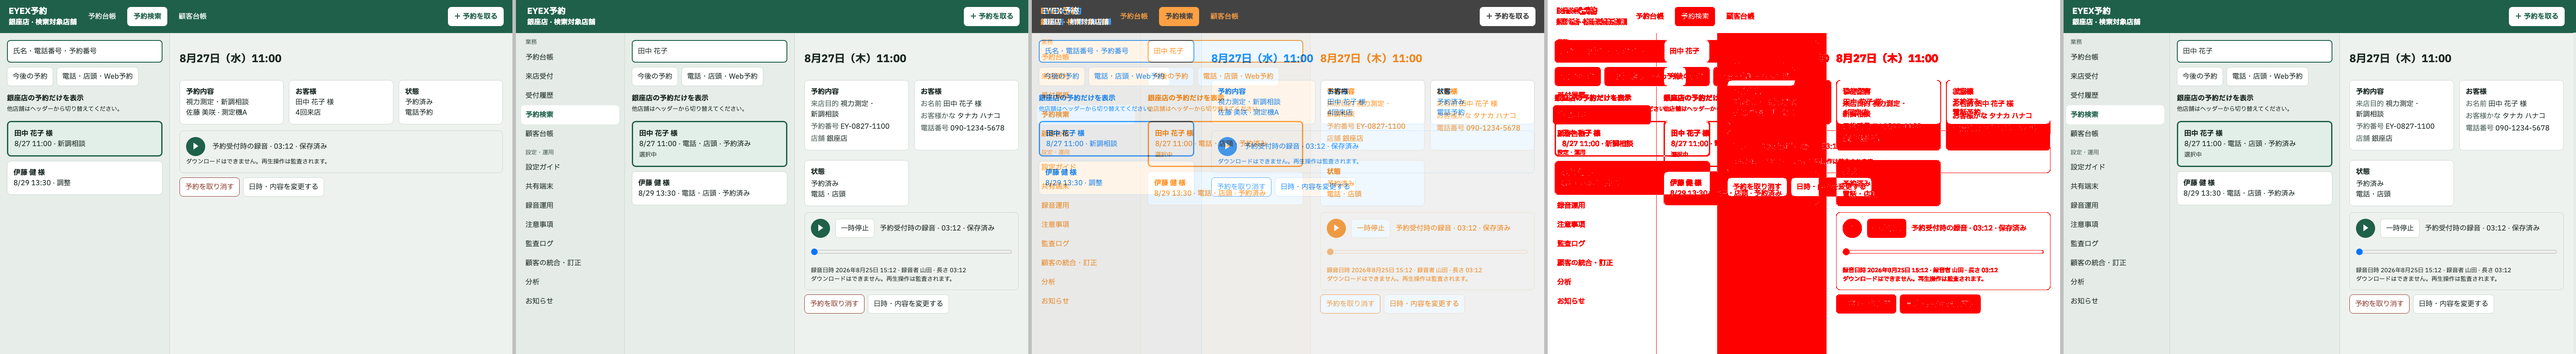
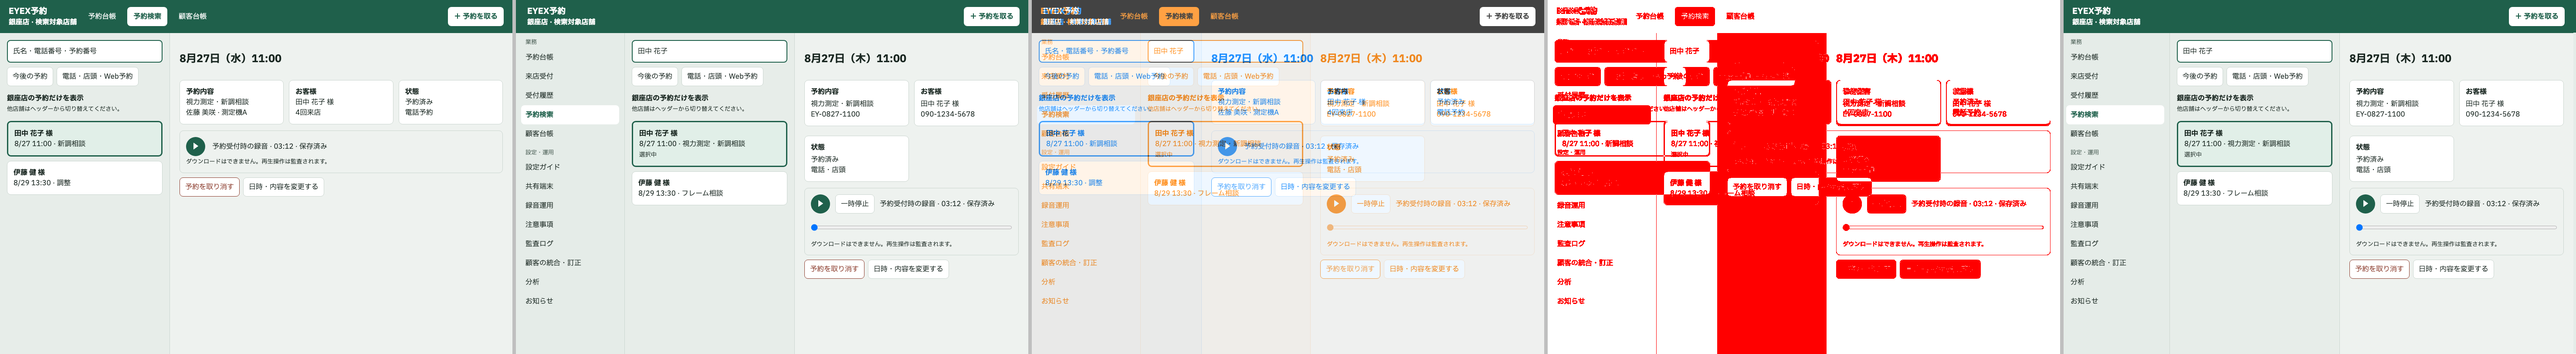
fix: let the reservation search read the way the mock reads
- 3 枚組から値ごとの札（来店目的・予約番号・お名前・かな・電話番号）を外した。
  カード見出しが既に言っている話を各行が言い直しており、柱 250px を引いた幅で
  札と値が競り合って語中で折れていた。来店日時は面の見出し、店舗はバーの副題が
  それぞれ名乗っている。
- 候補の並びを日時と来店目的にした。経路は選んだあとの「状態」カードが言い、
  状態は予約済みなら候補の全部に同じ語が並ぶだけで見分けの役に立たない
  （予約済みでないものだけ語を残す）。
- 録音から録音日時・録音者・長さの行を外した。承認済みモックの `.audio` は
  再生の操作と 1 行の説明、持ち出せない旨だけである（RES-SEARCH 37.5% → 34.8%）。

diff --git a/services/glasses_management/src/web/ReservationSearchScreen.tsx b/services/glasses_management/src/web/ReservationSearchScreen.tsx
@@ -4,7 +4,7 @@ import {
   type Recording,
   Reservation,
 } from '@app/contracts'
-import { type ReactNode, useCallback, useEffect, useRef, useState } from 'react'
+import { useCallback, useEffect, useRef, useState } from 'react'
 import {
   Action,
   Actions,
@@ -414,39 +414,12 @@ export function RecordingPanel({
               if (audioRef.current) audioRef.current.currentTime = next
             }}
           />
-          {/*
-           * 録音日時・録音者は、受付履歴では詳細の見出しが
-           * `2026年8月26日 14:18 · 受付者 鈴木` と既に言っている。同じ事実を
-           * 2 度書くと、どちらが本当かを読む側に確かめさせることになる。
-           * 見出しを持たない予約検索の面でだけ名乗る。
-           */}
-          {frame === 'card' && (
-            <small className="mt-1 block">
-              録音日時 <span>{formatJstDateTime(available.recordedAt)}</span>
-              <span aria-hidden="true"> · </span>
-              録音者 <span>{available.recordedBy}</span>
-              <span aria-hidden="true"> · </span>
-              長さ <span>{formatDuration(available.durationSeconds)}</span>
-            </small>
-          )}
         </>
       )}
       {available && wave && <Waveform />}
       {/* モックの `.audio small` — 持ち出せないことをどの状態でも言い続ける。 */}
       <small className="block">{note}</small>
     </section>
-  )
-}
-
-/**
- * カードの中の 1 行。モックの `.card` は `<b>` のあと `<br>` で行を継ぐだけで、
- * 段落は使っていない（`<p>` は上下 1em の余白を持つので高さが変わる）。
- */
-function CardRow({ label, children }: { label: string; children: ReactNode }) {
-  return (
-    <span className="mt-1 block">
-      <span className="text-ink-muted">{label}</span> {children}
-    </span>
   )
 }
 
@@ -788,7 +761,15 @@ export function ReservationSearchScreen({
                     <b>{`${reservation.customer.name} 様`}</b>
                     <br />
                     {formatJstRowDateTime(reservation.startAt)}
-                    {` · ${SOURCE_LABEL[reservation.source]} · ${STATUS_LABEL[reservation.status]}`}
+                    {/*
+                     * モックは日時と来店目的で並べる。経路は選んだあとの「状態」
+                     * カードが言い、状態は予約済みなら候補の全部に同じ語が並ぶ
+                     * だけで見分けの役に立たない。予約済みでないものだけは、
+                     * 選ぶ前に分かる必要があるので語を残す。
+                     */}
+                    {` · ${purposeText(reservation.purposeIds)}`}
+                    {reservation.status !== 'confirmed' &&
+                      ` · ${STATUS_LABEL[reservation.status]}`}
                     {/* 選択は 3px の緑枠で分かるが、色だけに頼らず語でも出す。 */}
                     {open && (
                       <>
@@ -810,19 +791,21 @@ export function ReservationSearchScreen({
               <section aria-label="予約詳細">
                 <h1>{formatJstHeading(selected.startAt)}</h1>
                 <CardColumns>
-                  <Card className="mt-2.5">
+                  {/*
+                   * モックの 3 枚組は見出しの下に値だけを 2 行置く。値ごとに札を
+                   * 付けると、カード見出しが既に言っている話を各行が言い直し、
+                   * 柱 250px を引いた幅では札と値が競り合って語中で折れる。
+                   * 来店日時は面の見出し、店舗はバーの副題がそれぞれ名乗っている。
+                   */}
+                  <Card label="予約内容" className="mt-2.5">
                     <b>予約内容</b>
-                    {/* 来店日時は面の見出しが名乗っている。ここで繰り返すと、
-                        承認済みモックが「予約内容」に置いている目的が押し出される。 */}
-                    <CardRow label="来店目的">{purposeText(selected.purposeIds)}</CardRow>
-                    <CardRow label="予約番号">{selected.reservationNumber}</CardRow>
-                    <CardRow label="店舗">{storeName}</CardRow>
+                    <span className="mt-1 block">{purposeText(selected.purposeIds)}</span>
+                    <span className="block">{selected.reservationNumber}</span>
                   </Card>
-                  <Card className="mt-2.5">
+                  <Card label="お客様" className="mt-2.5">
                     <b>お客様</b>
-                    <CardRow label="お名前">{`${selected.customer.name} 様`}</CardRow>
-                    <CardRow label="お客様かな">{selected.customer.kana}</CardRow>
-                    <CardRow label="電話番号">{selected.customer.phone}</CardRow>
+                    <span className="mt-1 block">{`${selected.customer.name} 様`}</span>
+                    <span className="block">{selected.customer.phone}</span>
                   </Card>
                   <Card className="mt-2.5">
                     <b>状態</b>

diff --git a/services/glasses_management/src/web/ReservationSearchScreen.test.tsx b/services/glasses_management/src/web/ReservationSearchScreen.test.tsx
@@ -538,8 +538,10 @@ test('shows recording metadata and playback controls without any download contro
   expect(
     within(region).getByText('ダウンロードはできません。再生操作は監査されます。'),
   ).toBeInTheDocument()
-  expect(within(region).getByText('2026年8月20日 10:05')).toBeInTheDocument()
-  expect(within(region).getByText('鈴木')).toBeInTheDocument()
+  /* モックの `.audio` は再生の操作と 1 行の説明、そして持ち出せない旨だけ。
+     録音日時・録音者は載せない（監査に残るのは操作の側で、面の役目ではない）。 */
+  expect(region.textContent).not.toContain('録音日時')
+  expect(region.textContent).not.toContain('録音者')
   expect(within(region).getAllByText('03:12').length).toBeGreaterThan(0)
   const play = within(region).getByRole('button', { name: '再生' })
   expect(play.className).toContain('size-11')
@@ -829,4 +831,37 @@ test('shows the approved permission-denied state with a way back', async () => {
   expect(screen.queryByRole('region', { name: '検索結果' })).not.toBeInTheDocument()
   fireEvent.click(screen.getByRole('button', { name: '業務開始画面へ戻る' }))
   expect(navigate).toHaveBeenCalledWith({ screen: 'home' })
+})
+
+/*
+ * 承認済みモックの 3 枚組は、見出しの下に値だけを 2 行置く（`視力測定・新調相談`
+ * / `佐藤 美咲・測定機A` のように）。値ごとに「来店目的」「予約番号」と札を
+ * 付けると、カード見出しが既に言っている話を各行が言い直し、柱 250px を引いた
+ * 幅では札と値が競り合って語中で折れる。
+ */
+test('予約の 3 枚組は札を付けず値だけを並べる', async () => {
+  renderScreen(listResponse([tanaka]))
+  searchFor('田中')
+  fireEvent.click(await screen.findByRole('button', { name: /田中 花子/ }))
+  const detail = await screen.findByRole('region', { name: '予約内容' })
+  expect(detail.textContent).not.toContain('来店目的')
+  expect(detail.textContent).not.toContain('予約番号')
+  expect(detail.textContent).toContain('EY-')
+})
+
+/*
+ * 承認済みモックの候補は `8/27 11:00 · 新調相談` と、日時と来店目的で並ぶ。
+ * 経路と状態を出していたが、経路は選んだあとの「状態」カードが言い、状態は
+ * 予約済みなら候補の全部に同じ語が並ぶだけで見分けの役に立たない。取消など
+ * 予約済みでない予約だけは、選ぶ前に分かる必要があるので語を残す。
+ */
+test('候補は日時と来店目的で並べる', async () => {
+  renderScreen(listResponse([tanaka]))
+  searchFor('田中')
+  const row = await screen.findByRole('button', { name: /田中 花子/ })
+  /* 目的の名は店舗設定から引く。ここでは設定を返していないので、名が引けない
+     ときの控え（件数）で出る。確かめたいのは「経路と状態ではない」ことである。 */
+  expect(row.textContent).toContain('1件')
+  expect(row.textContent).not.toContain('電話・店頭')
+  expect(row.textContent).not.toContain('予約済み')
 })
